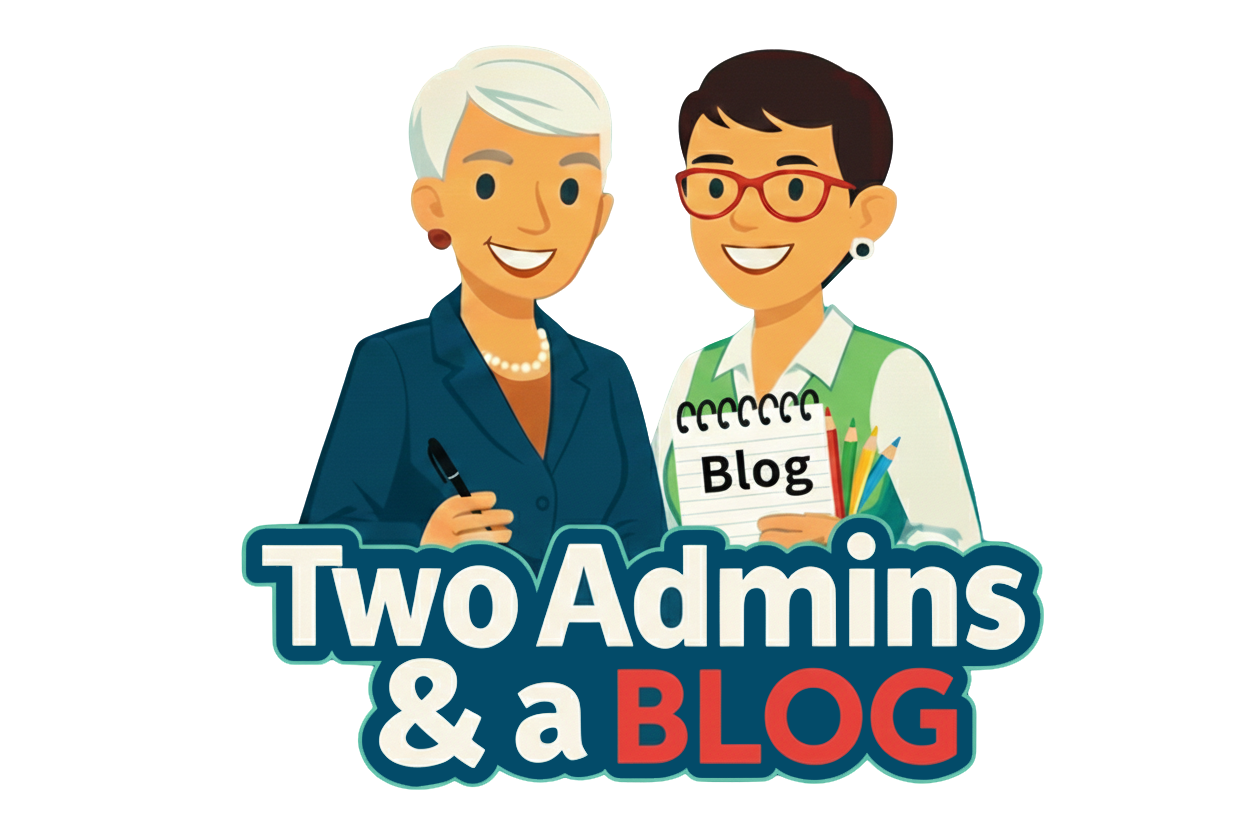
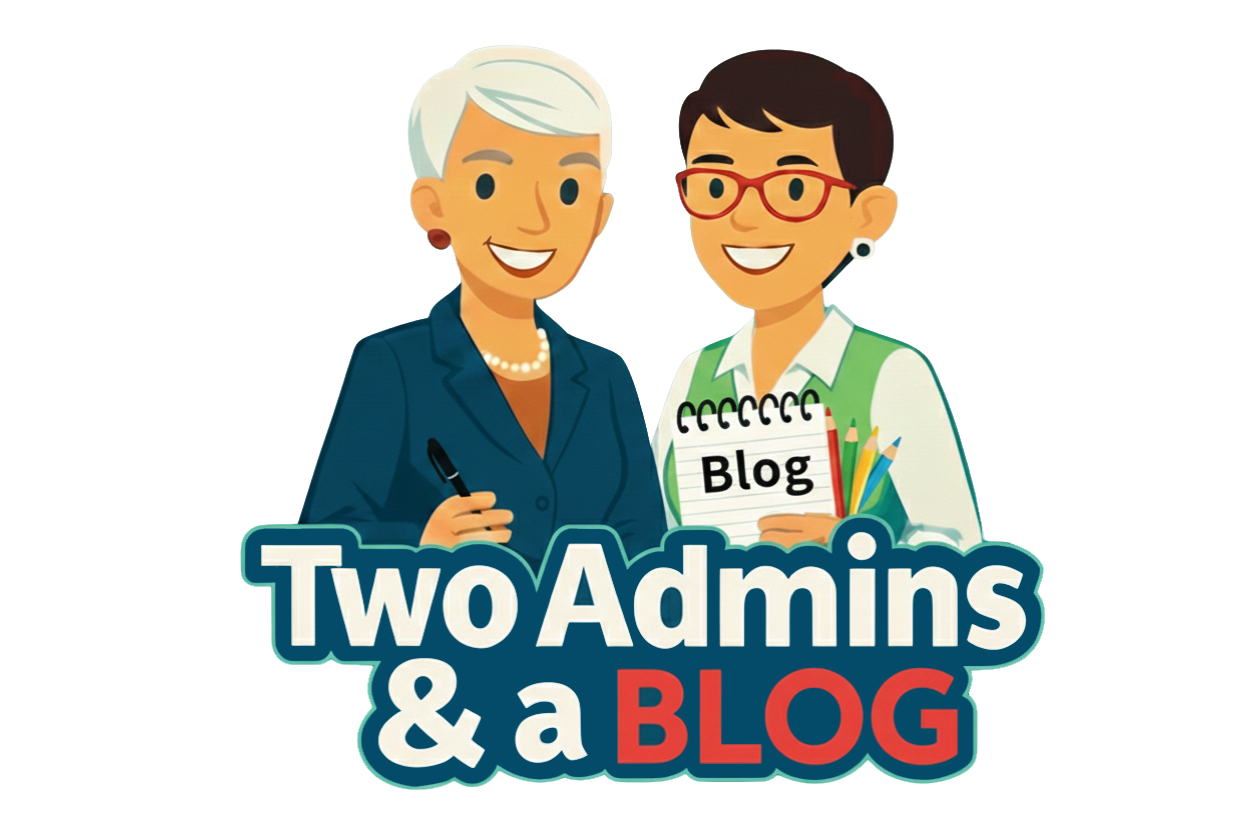
Changes

diff --git a/src/pages/Blog.tsx b/src/pages/Blog.tsx
@@ -45,7 +45,7 @@ const Blog = () => {
       }}>
           {/* Blog banner image */}
           <div className="flex justify-center pt-10 pb-0 relative z-10">
-            
+            <img src={blogBanner} alt="Two Admins & a Blog" className="w-72 md:w-96 lg:w-[480px] h-auto drop-shadow-2xl mix-blend-multiply" />
           </div>
 
           {/* Text content overlapping bottom of image */}
